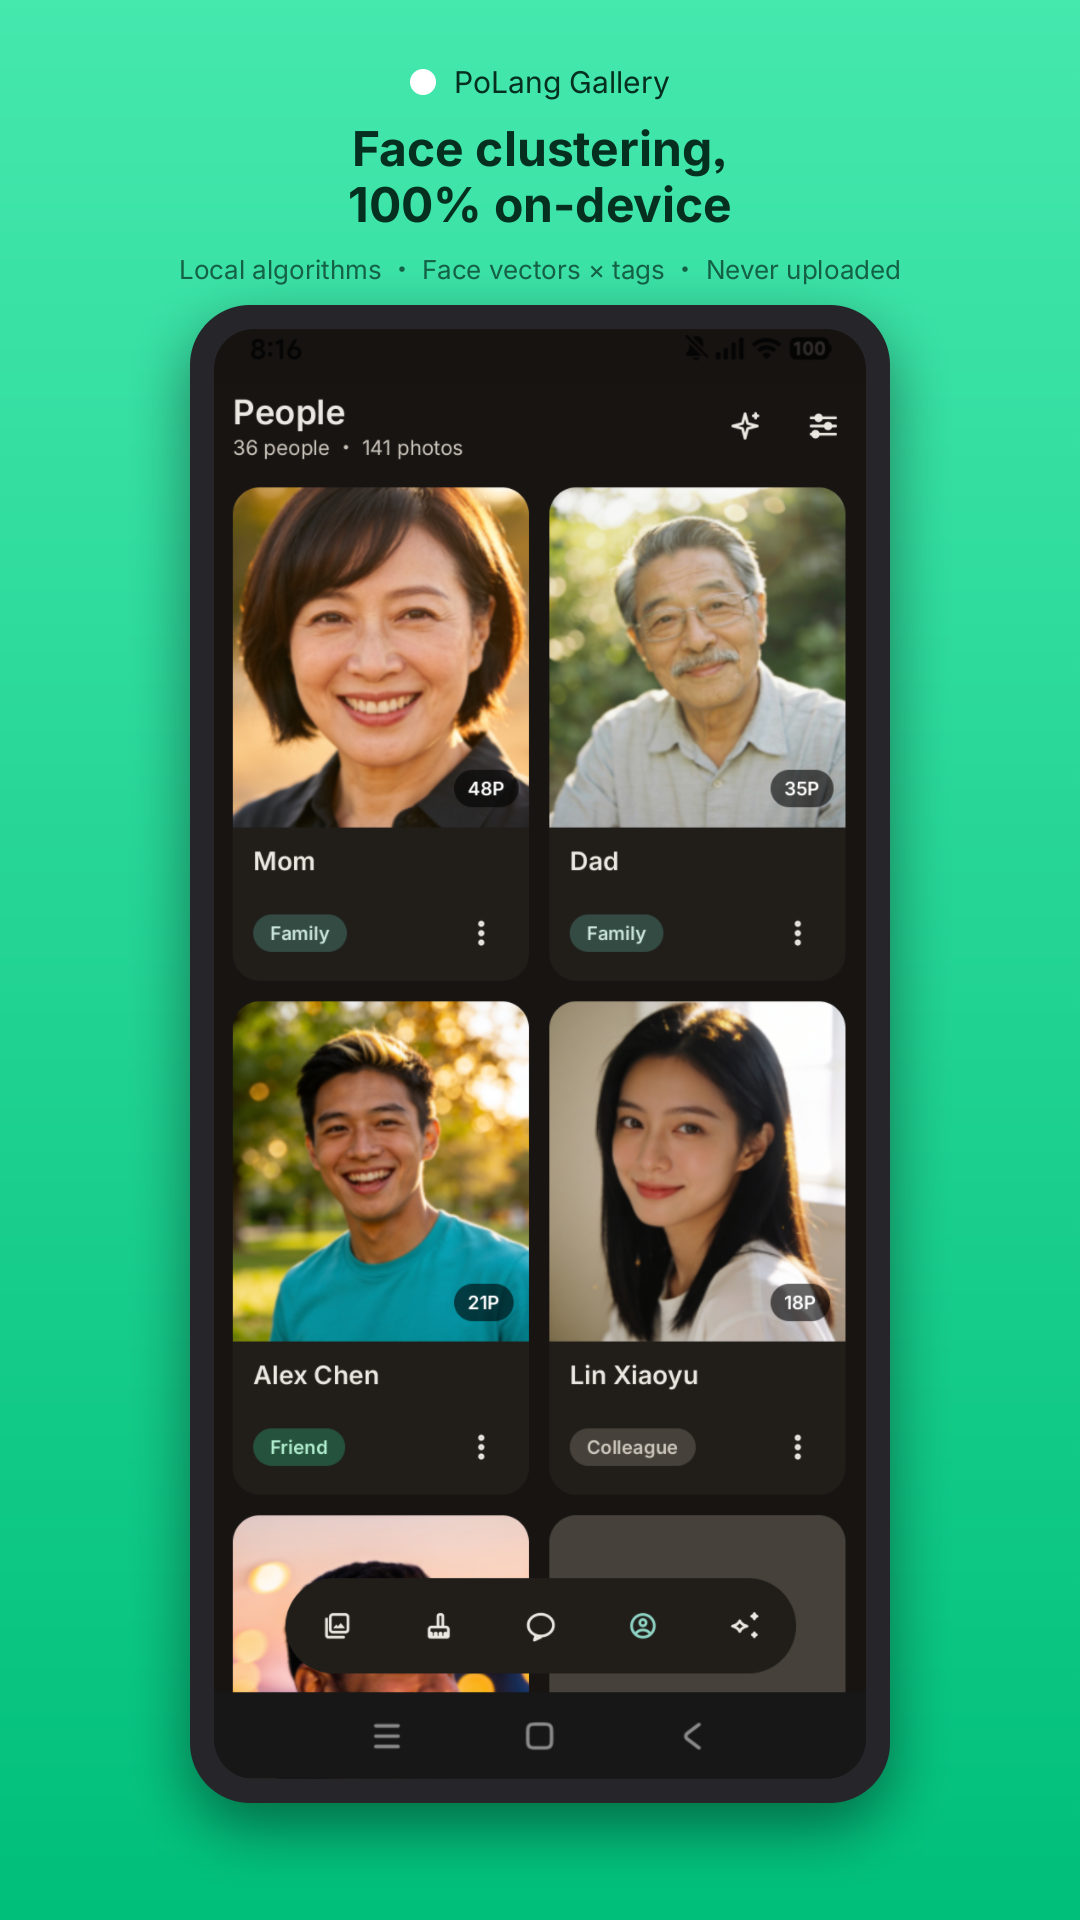
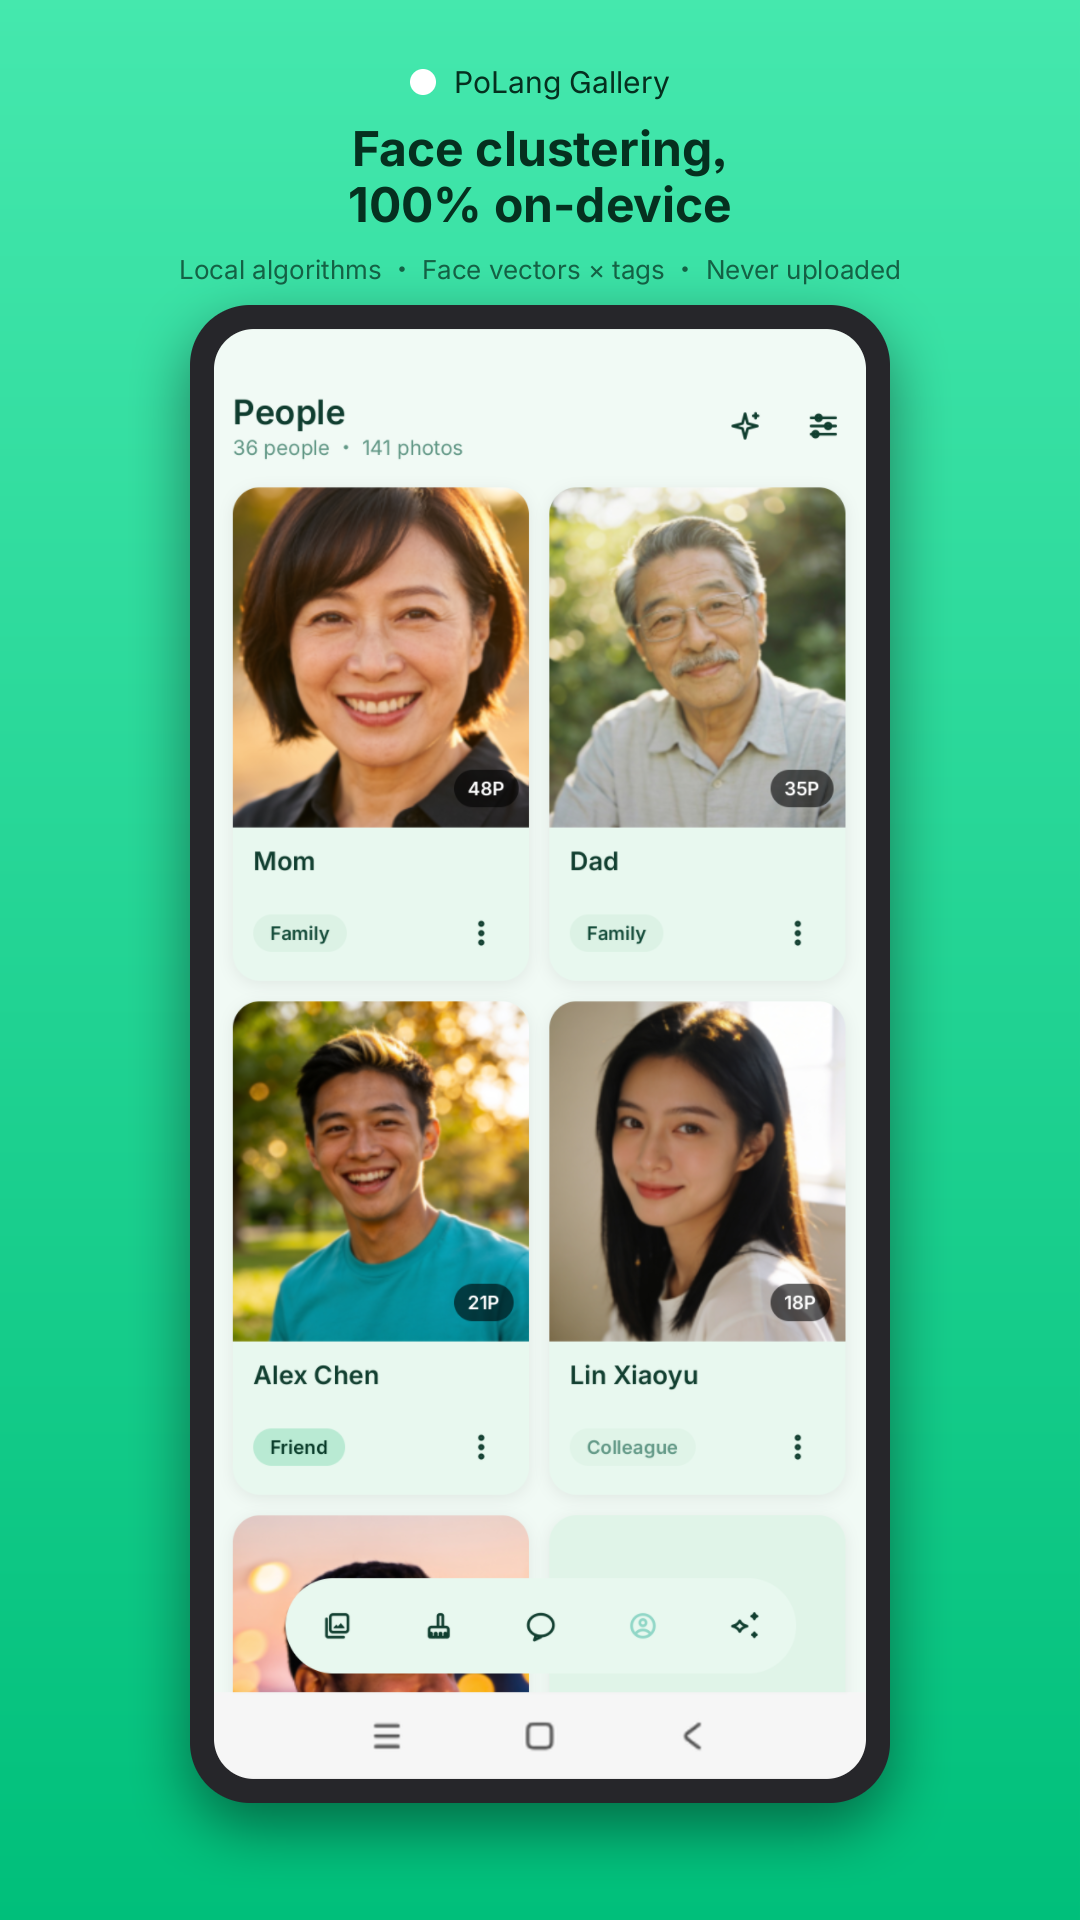
feat(design): 虚拟键全画布统一——海报烘焙图×24 换新样式+privacy-store01-zh 实例化
- 审计 11 页:56/57 虚拟键节点已是 385:107 实例;唯一旧样式 privacy-store01-zh
  386:33(静态单图层 FRAME)替换为组件实例 388:5
- 商店海报 24 张内嵌截图为 AOSP 旧三键(实心三角/空心圆方),经
  download_source_media→PIL 修补→upload_images 通道统一为最新线性图标样式,
  键位几何与组件 spec 对齐(0.27/0.50/0.73)
- 补回组件 bar_dark 层 sysbar-dark 布尔绑定(原先丢失);bar_light 空壳化与
  false 值布尔绑定失效为引擎限制,记入陷阱表
- SKILL 陷阱表 +5 行(v1.2.0):钉 Light 不穿透实例/visible 绑布尔语法/
  快照漏 PlayStoreAssets 页/烘焙图更新通道等

Changed region(s): [[0.1833, 0.1562, 0.825, 0.9375]]

diff --git a/skills/ardot-design-ops/SKILL.md b/skills/ardot-design-ops/SKILL.md
@@ -114,6 +114,11 @@ ls docs/08-UI-SPECS/screens/refs/ardot/   # 核对陈旧 PNG → git rm
 | 变量删除/重命名无 API | 已迁移变量旧名残留画布,--check 永久 NEW | 登记 sync-ignore.txt 豁免;勿用 apply_variables replace=true(会误删 sysbar-* 等机制变量) |
 | 画布手建色值精度渣 | UI 取色存 0.0590003 式 float,--check 假值漂移(hex 相同) | pull 回流后再 push 一次归一;像素影响 ≤1 LSB,视觉零变化 |
 | 双模式色勿入 color/ 组 | pull 按单值域取 Dark 弃 Light,Light 值丢失 | 主题相关色入 colorScheme(scheme/* 双 mode),或迁移:JSON 加 colorScheme 键→push→重绑→旧名豁免 |
+| 帧钉 Light 不穿透实例 | 钉 variableModes 后帧内实例子树仍按页模式(Dark)渲染 | 实证限制(chat/empty 钉 Light,top_bar/InputBar/nav 实例区全深色);Light 验证只对非实例内容有效,实例区别信钉定预览 |
+| visible 绑布尔语法 | boundVariables 对象/`$:Set:Name` 均被静默忽略 | U 用 `{visible: "$<varId>"}`(如 `$386:38`);回读 boundVariables 确认 |
+| 绑 false 值布尔不生效 | 绑当前模式解析为 false 的变量(如 Dark 下绑 sysbar-light)后回读无绑定 | 引擎疑似 bug,无绕过;bar_light 侧绑定需在 Light 默认模式下做或等引擎修复 |
+| export-ardot-snapshot 漏页 | 快照只导 10/11 页(缺 PlayStoreAssets),海报 PNG 不更新 | 海报/guide 帧须单独 export_nodes(scale 1)按帧名落 refs |
+| 海报烘焙图更新通道 | 设计海报内嵌截图是静态 IMAGE fill,不随组件更新 | download_source_media→本地 PIL 修补→upload_images 回传同节点(≤10/批) |
 
 ## 相关文件
 
@@ -133,3 +138,4 @@ ls docs/08-UI-SPECS/screens/refs/ardot/   # 核对陈旧 PNG → git rm
 | 1.1.0 | 2026-09-20 | Task 4 实战坑回填(陷阱表 +6 行/落盘方式/ignore-file 门禁/豁免清单索引) |
 | 1.1.1 | 2026-09-20 | 落盘封装入库:`tmp/ardot-health/baseline_scan.py` 提升为 `scripts/ardot-scan.py`(CLI 可配),S1 引用改指入库脚本 |
 | 1.1.2 | 2026-09-20 | token 漂移收敛实战回填:sync-ignore 豁免机制(陷阱表 +3 行/相关文件 +1) |
+| 1.2.0 | 2026-09-20 | 虚拟键统一实战回填:陷阱表 +5 行(钉 Light 不穿透实例/visible 绑布尔语法/false 布尔绑定失效/快照漏 PlayStoreAssets 页/烘焙图更新通道) |
